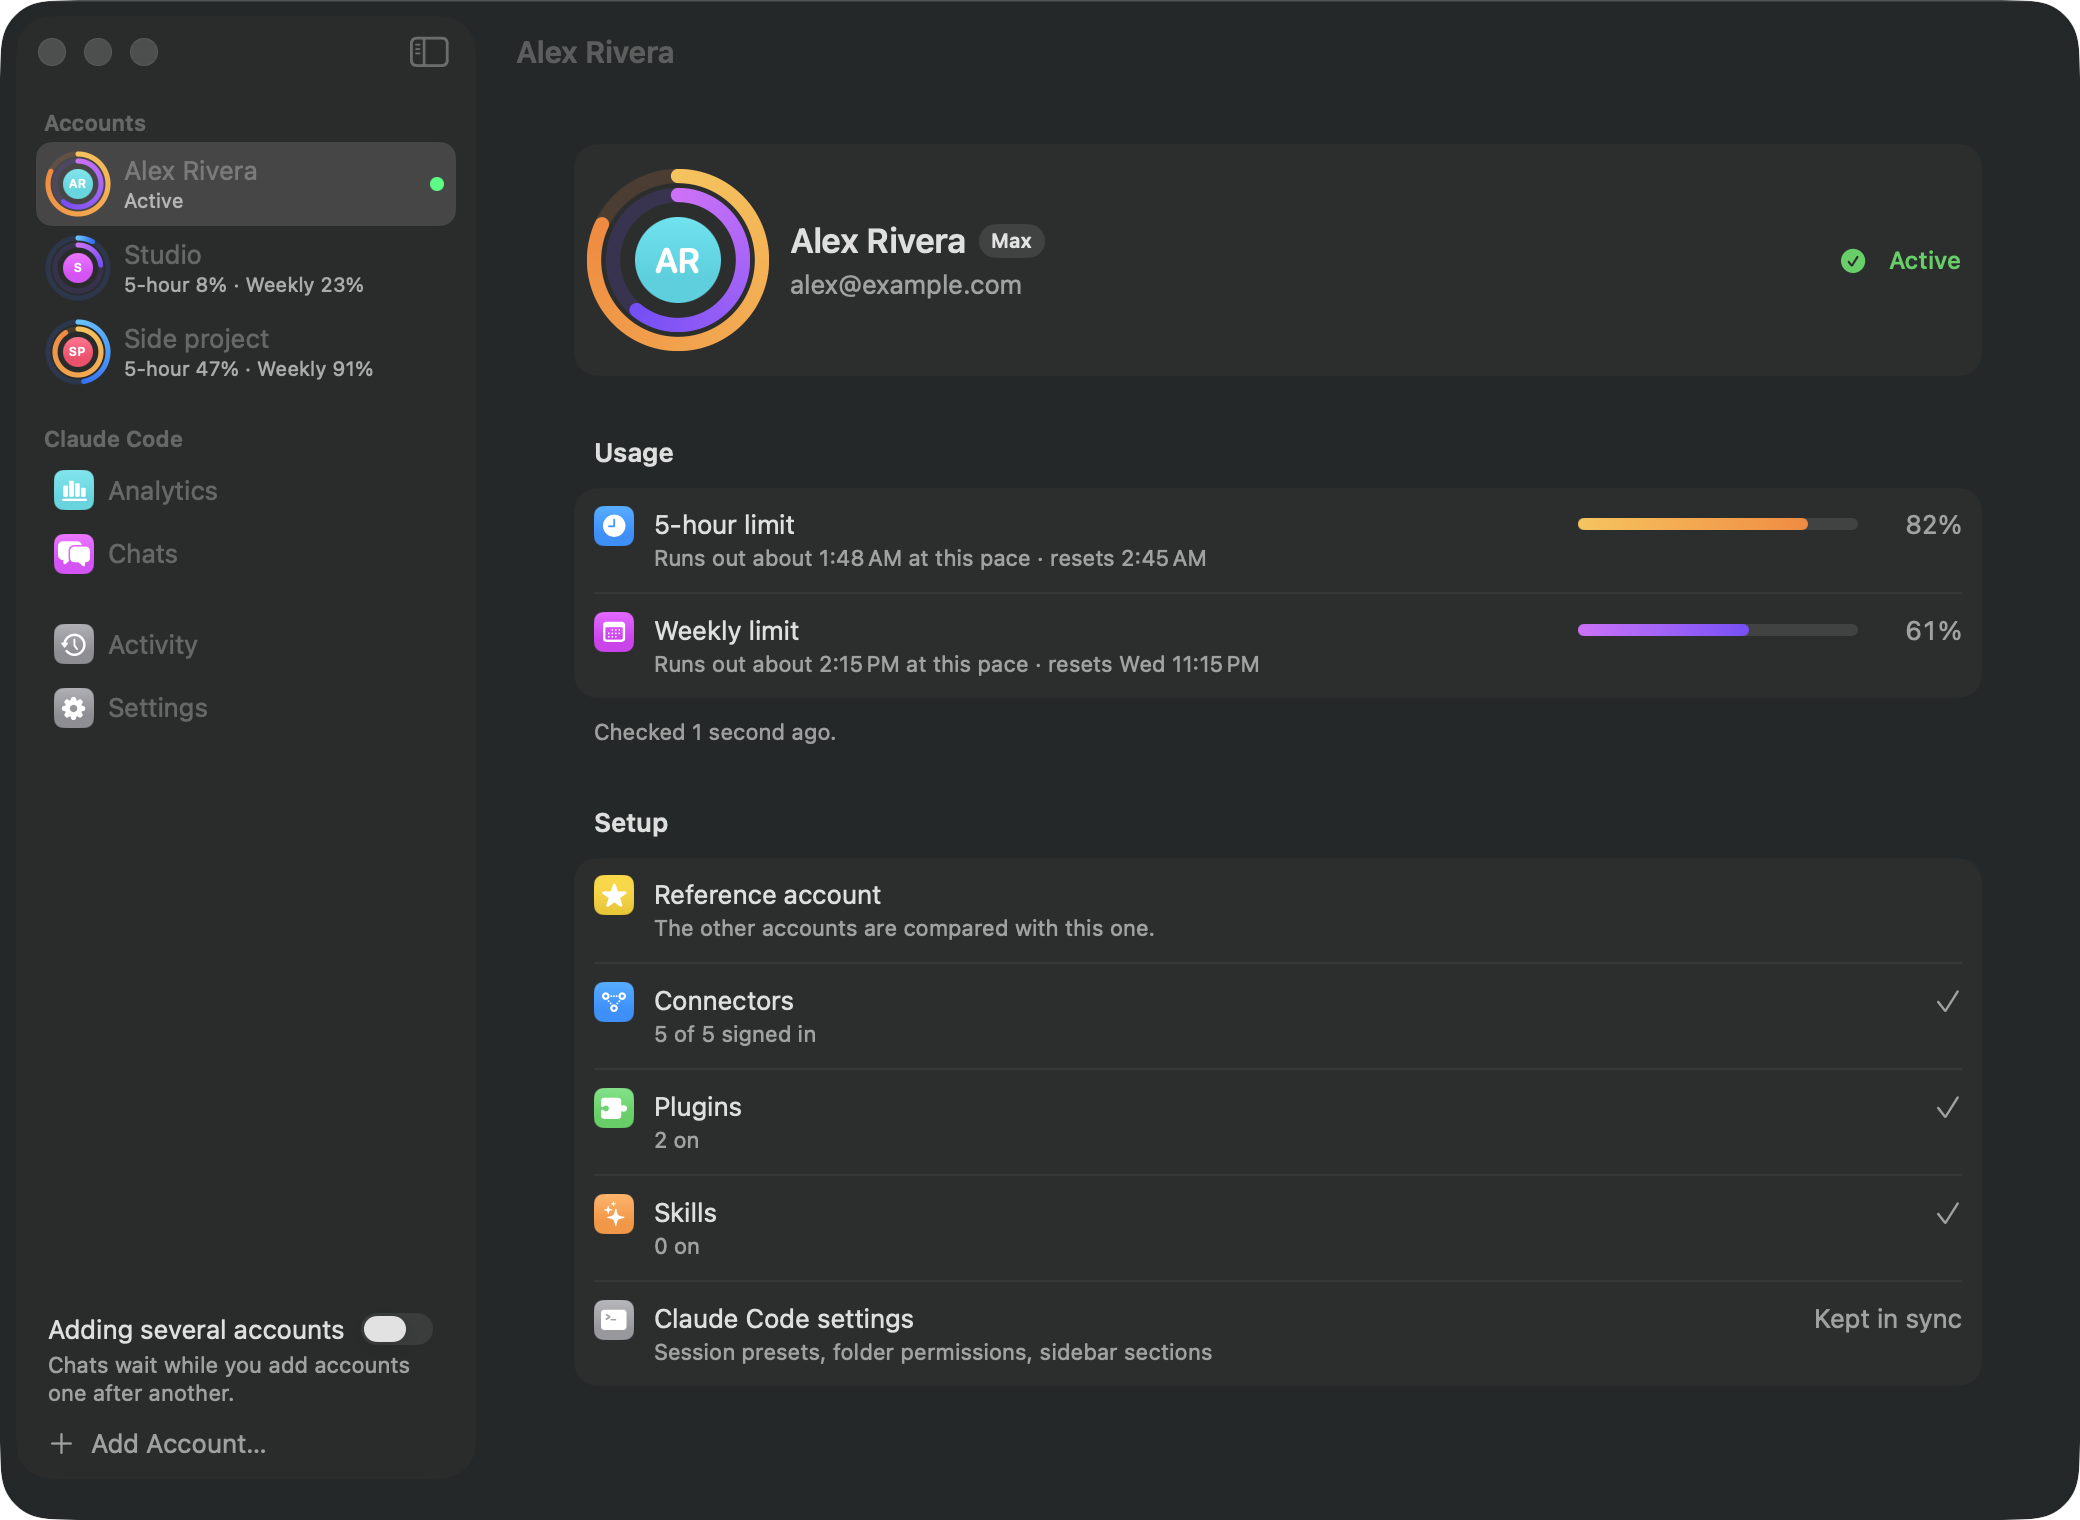
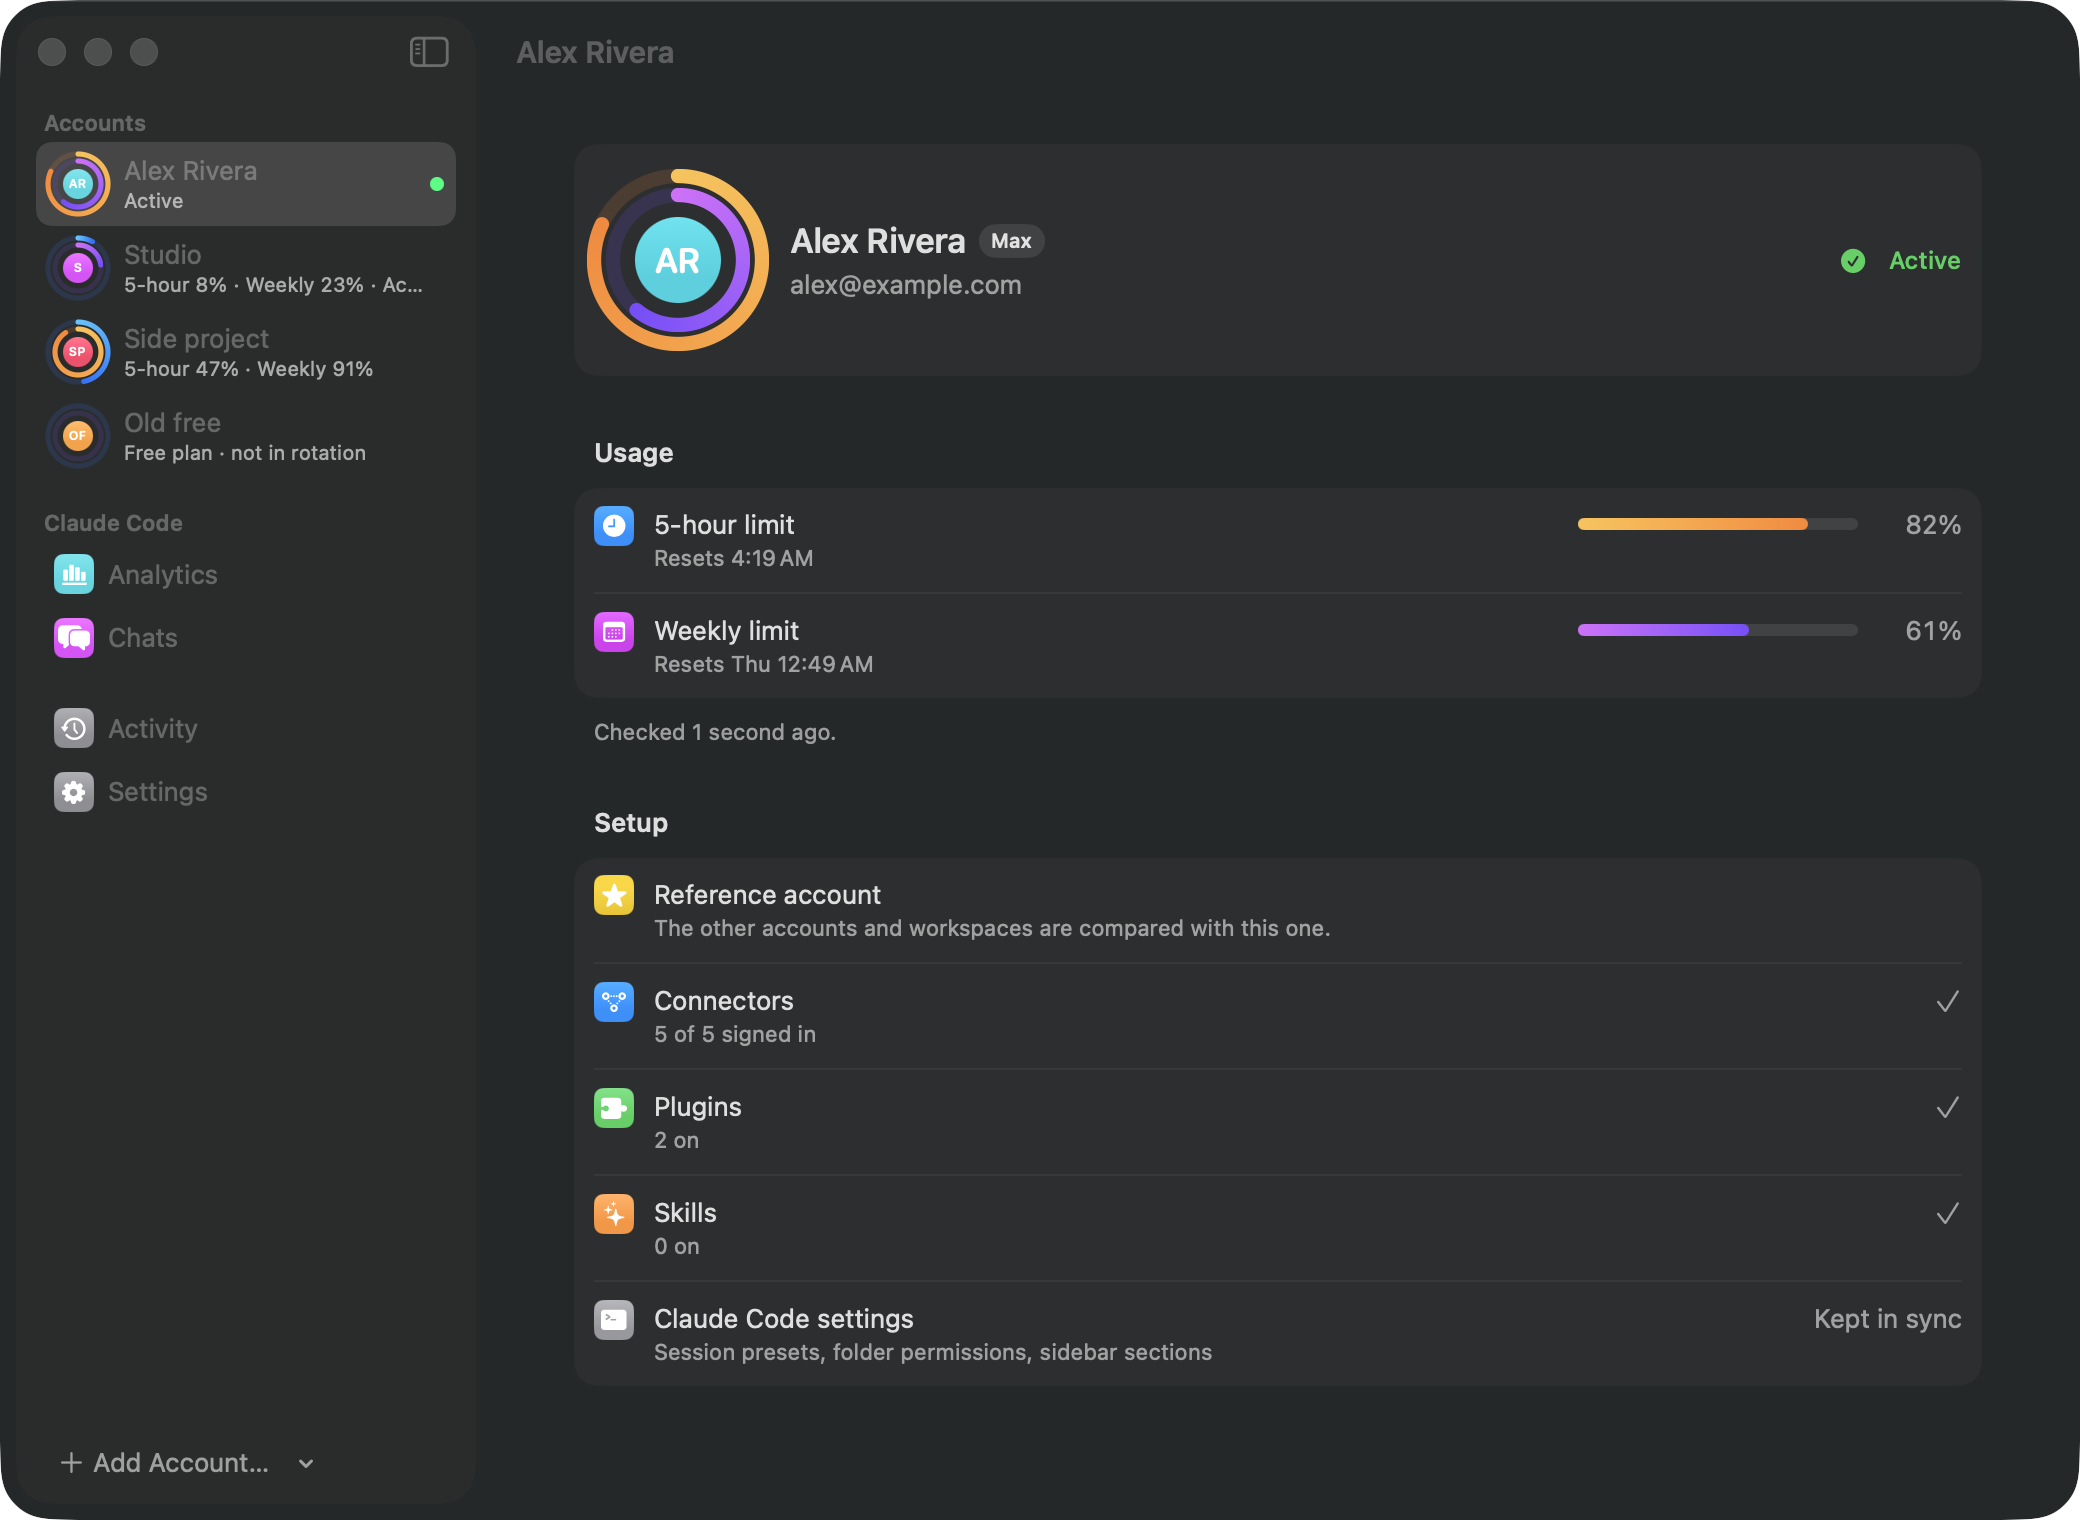
chore(release): 0.4.0

diff --git a/README.md b/README.md
@@ -77,7 +77,7 @@ It runs in the menu bar, reads each account's 5-hour and weekly limits from Anth
 
 - ✨ **One-click switch**: quits Claude cleanly (the same shutdown as quitting it yourself), swaps the sign-in and opens Claude again.
 - ✨ **Add Account**: restarts Claude on its sign-in screen and keeps your current sign-in. Sign in with the other account and Claude Switcher picks it up.
-- ✨ **Adding several accounts**: a switch that keeps cut-off chats waiting while you add accounts one after another. Turn it off on the last one and every waiting chat continues there.
+- ✨ **Add Several Accounts**: chats a restart cuts off wait while you add accounts one after another; press Done on the last one and every waiting chat continues there.
 - ✨ **Shared chats and projects**: every account's Claude Code chat list holds the same chats. Chats you deleted stay deleted.
 - ✨ **Work continues after a switch**: chats that were mid-turn, running a command, or waiting on a background agent are marked as interrupted. Claude continues the main chats, and they check on their side sessions.
 - ✨ **Live limits**: both limits of every account, as rings in the menu bar and the window, with their reset times and when they run out at the pace of the last checks.
@@ -88,7 +88,8 @@ It runs in the menu bar, reads each account's 5-hour and weekly limits from Anth
   - to an account whose week resets within a day, only when that week is worth clearly more than the switch costs;
   - paused for two hours with one click.
 - ✨ **Same setup everywhere**: compares each account's connectors, tool permissions, plugins and skills on claude.ai with a reference account. Copy Setup adds what is missing, and only runs when you click it.
-- ✨ **Workspaces**: an account in a team shows its Personal and Team workspaces, each with its own limits and its own setup; automatic switching counts every workspace, and you can leave one out.
+- ✨ **Workspaces**: an account in a team shows its Personal and Team workspaces, each with its own limits and its own setup; automatic switching counts every workspace, and you can leave one out. Switch workspaces in Claude, and the switcher follows.
+- ✨ **Free accounts stay out of the way**: an account without a plan Claude Code runs on is marked Free and never rotated to.
 - ✨ **Claude Code settings in sync**: session presets, folder permissions and sidebar sections follow you from one account to the next.
 - ✨ **Analytics**: tokens, replies, cache hits and API-price value:
   - filtered by account and model, for today, 7 or 30 days, this month or all time;
@@ -107,6 +108,10 @@ It runs in the menu bar, reads each account's 5-hour and weekly limits from Anth
 
 <p align="center">
   <img src="docs/assets/account.png" width="860" alt="Account page with limits and setup">
+</p>
+
+<p align="center">
+  <img src="docs/assets/workspaces.png" width="860" alt="An account with Personal and Team workspaces">
 </p>
 
 <p align="center">
@@ -254,7 +259,11 @@ In **Settings → Automatic Switching** you can turn on:
 
 ### Adding Several Accounts
 
-Turn on **Adding several accounts** in the menu bar panel or the window, then add or switch accounts as often as you like: chats a restart cuts off wait instead of continuing, and nothing switches on its own. Turn it off on the account the chats should continue in; Claude restarts once and continues them all there.
+Choose **Add Several Accounts…** in the menu bar panel, or from the arrow next to **Add Account…** in the window. Sign in to one account after another with **Add Another**: chats a restart cuts off wait instead of continuing, and nothing switches on its own. Press **Done** on the account they should continue in; Claude restarts once and continues them all there.
+
+### Workspaces
+
+When an account belongs to a team, its page shows a **Workspaces** section: its own plan (Personal) and each Team or Enterprise workspace, with the limits of each. A checkmark marks the one Claude has open. Switch workspaces in Claude itself; Claude Switcher follows. Automatic switching counts every workspace and may move Claude between them when one runs low; turn off **Use for automatic switching** under a workspace to leave it out. Free workspaces and accounts without a plan Claude Code runs on are shown but never rotated to.
 
 ### Connectors
 
@@ -288,6 +297,7 @@ Prints every saved account with its usage, then exits.
 | Analytics and the all-chats table                       | ✅ Done        |
 | Shortcuts, notifications, start at login                | ✅ Done        |
 | Forecast-driven switching, pause, plan vs extra usage   | ✅ Done        |
+| Personal and Team workspaces, setup per workspace       | ✅ Done        |
 | Desktop and Notification Center widgets                 | 🚧 In Progress |
 | Signed and notarized releases                           | 🚧 In Progress |
 
